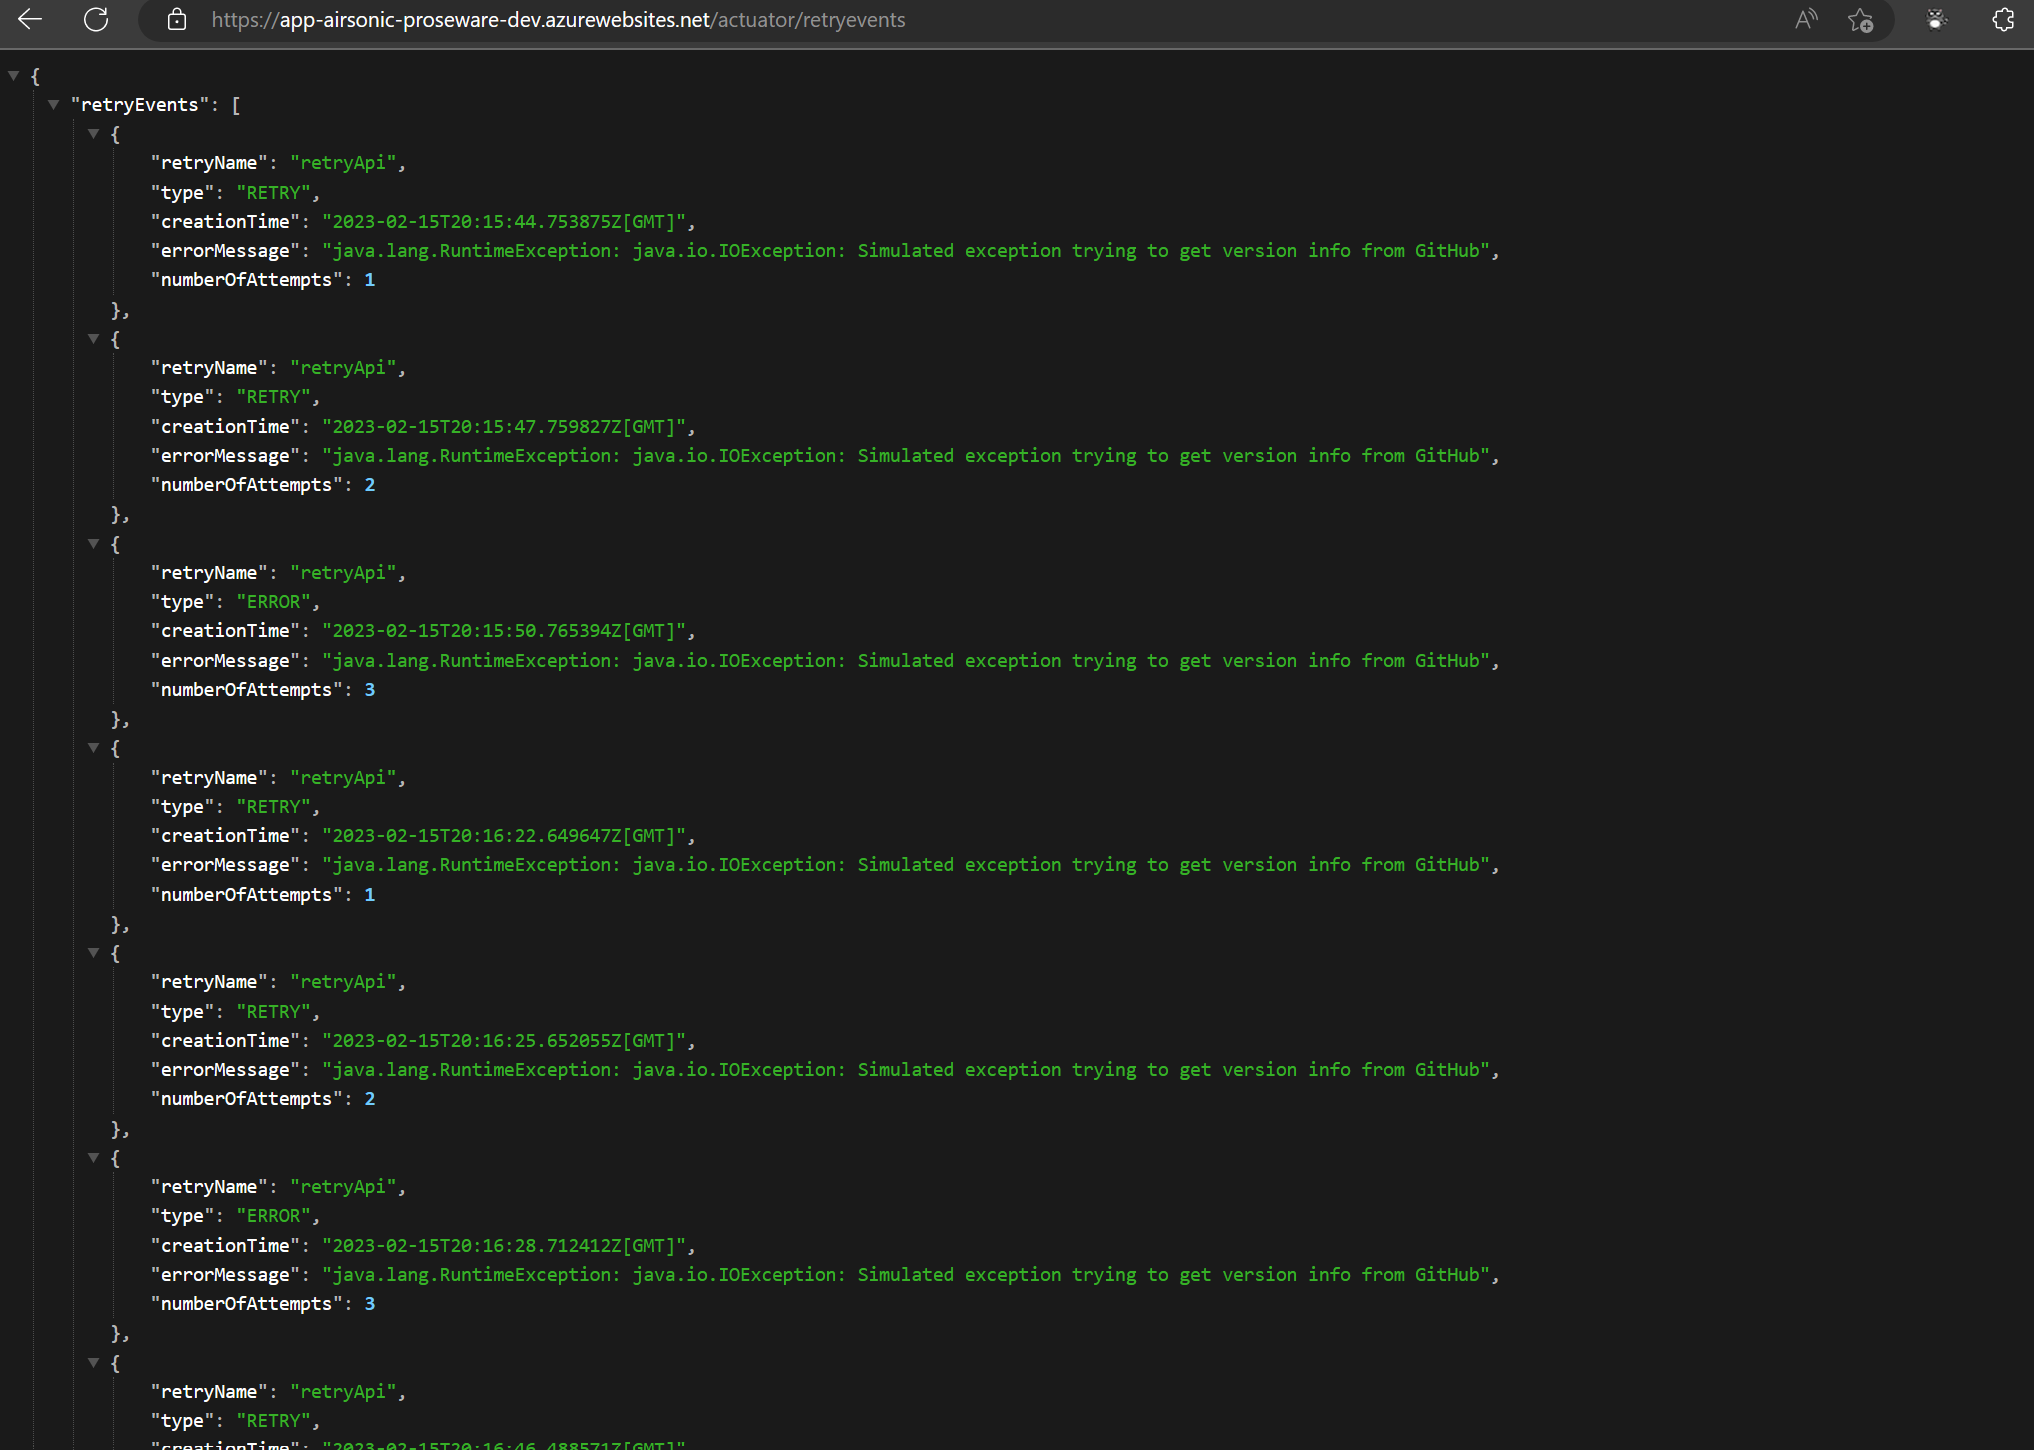
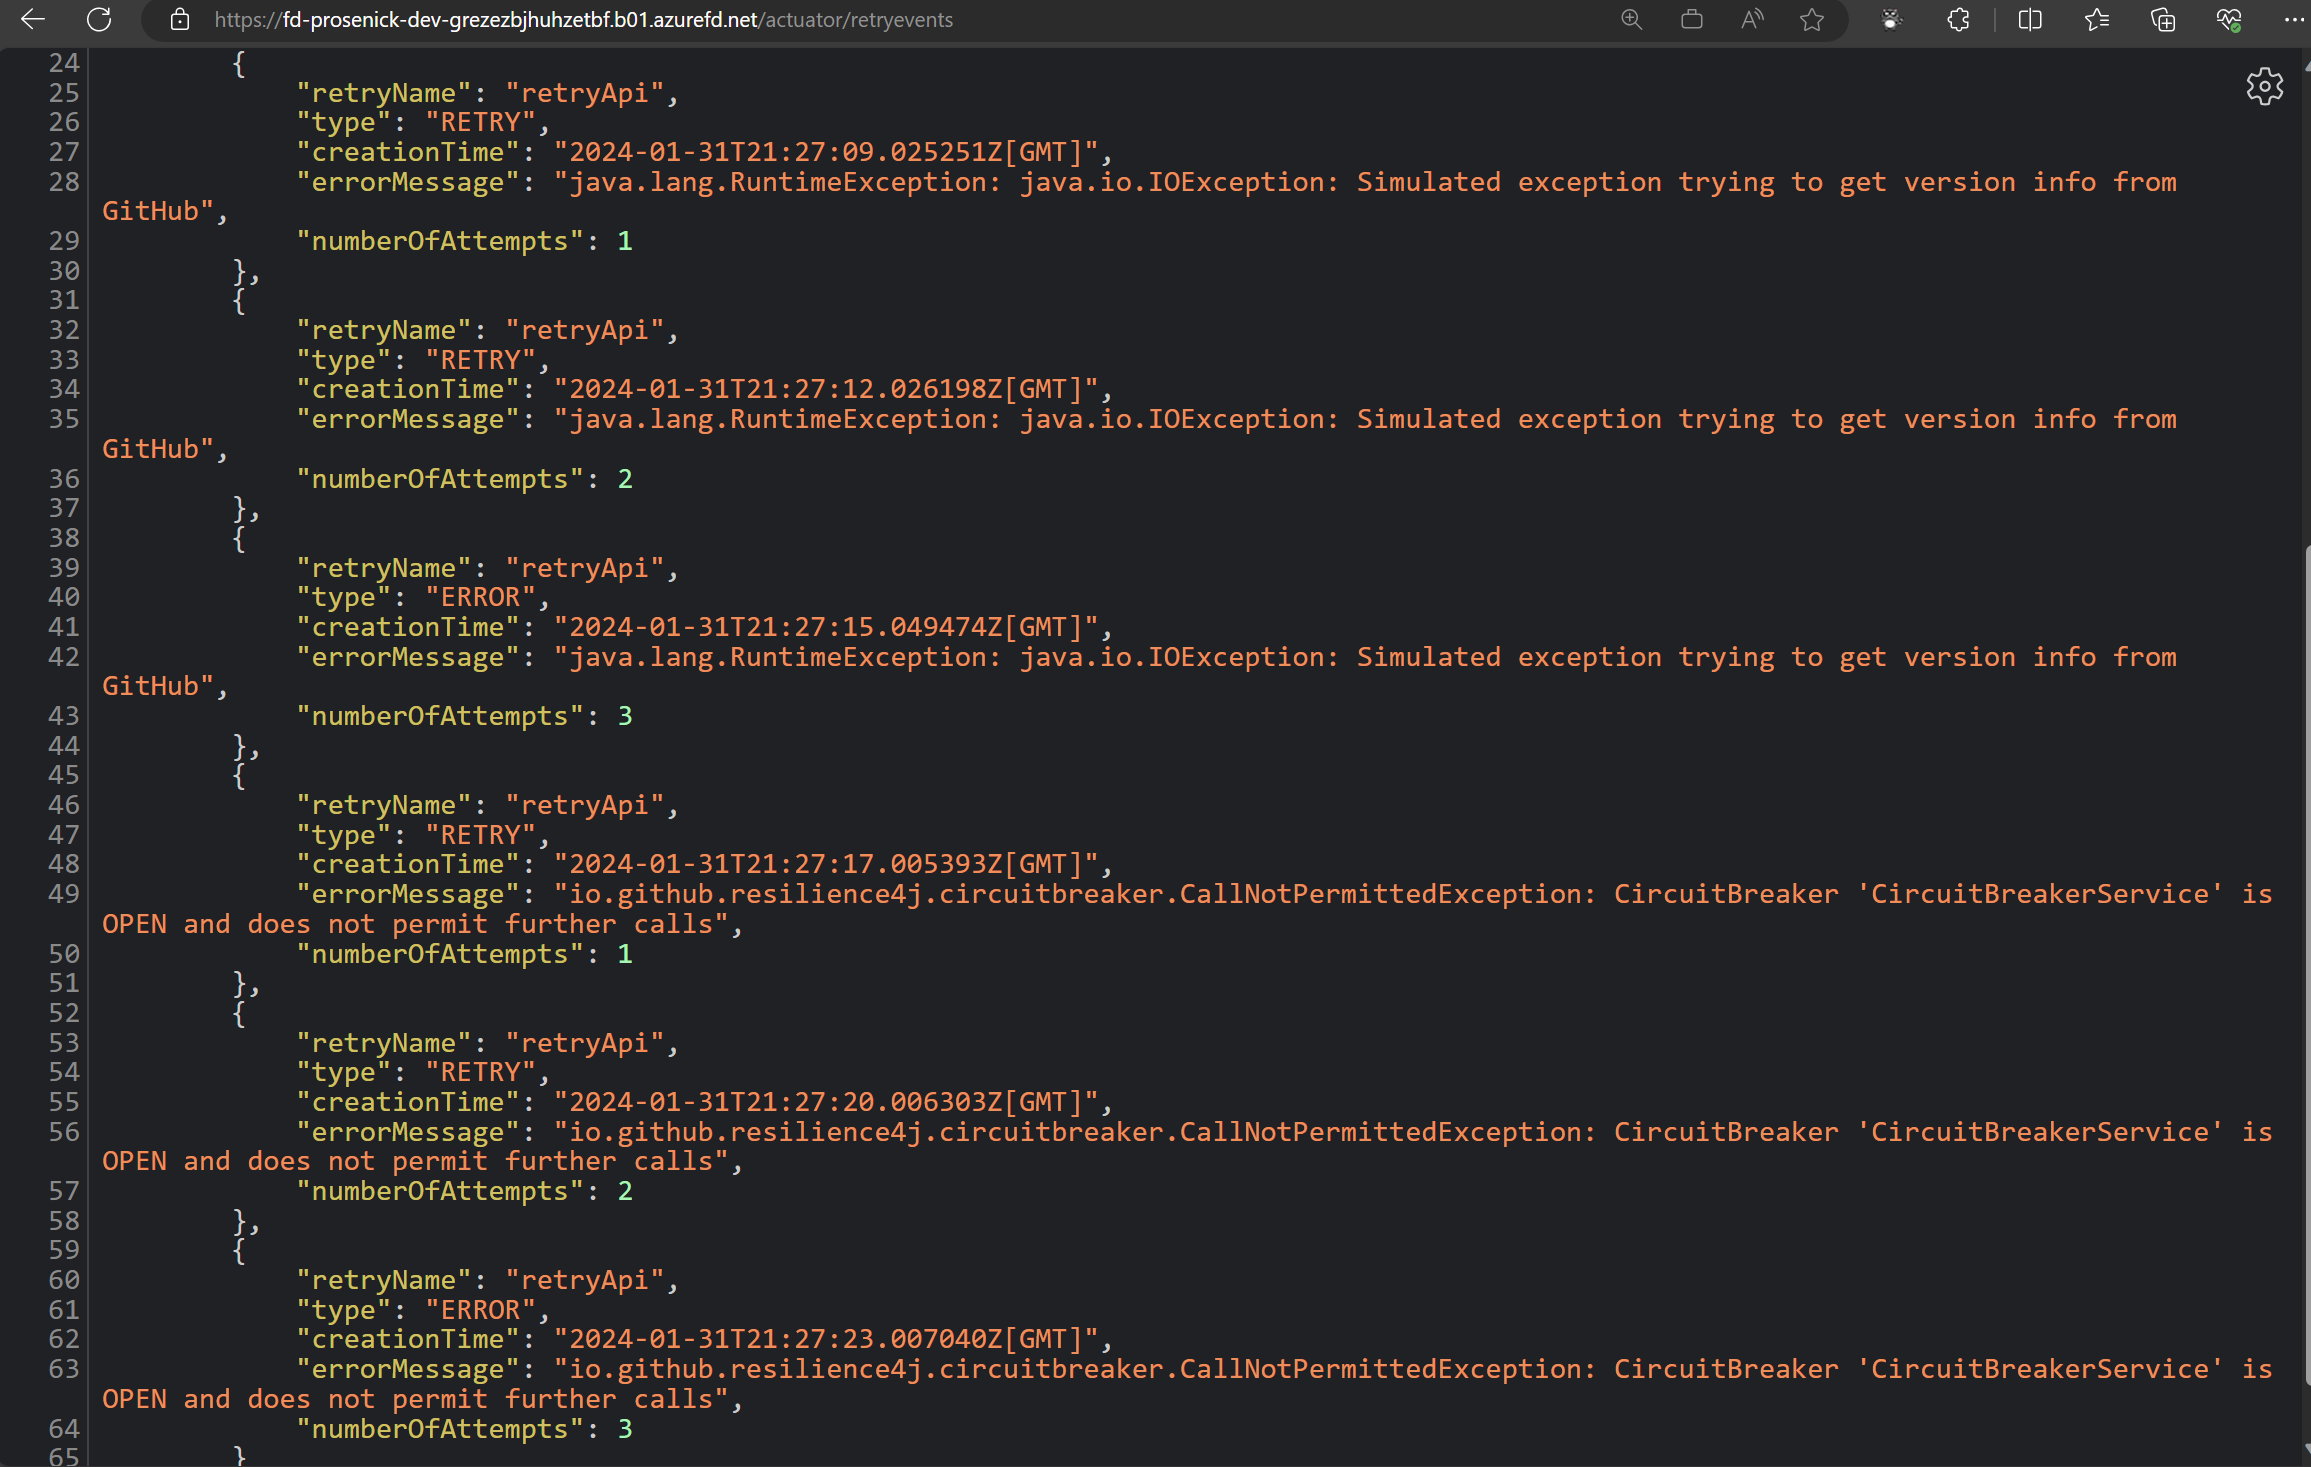
changes

diff --git a/Part4-Reliability/README.md b/Part4-Reliability/README.md
@@ -19,11 +19,11 @@ When the `AIRSONIC_RETRY_DEMO` setting is set to 1, we not only simulate a failu
 2. Changing an application setting will cause the App Service to restart. Wait for the app to restart.
 
 3. We added Spring Actuator Dependencies to the Proseware project. This enables actuator endpoints. Navigate to the following sites:
-    * https://<APP_NAME>.azurewebsites.net/actuator
-    * https://<APP_NAME>.azurewebsites.net/actuator/retryevents
-    * https://<APP_NAME>.azurewebsites.net/actuator/metrics/resilience4j.circuitbreaker.not.permitted.calls
+    * https://<FRONT_DOOR_URL>/actuator
+    * https://<FRONT_DOOR_URL>/actuator/retryevents
+    * https://<FRONT_DOOR_URL>/actuator/metrics/resilience4j.circuitbreaker.not.permitted.calls
 
-4. Navigate to https://<APP_NAME>.azurewebsites.net/index and refresh the page. Every time you refresh the page, a call to GitHub is made.
+4. Navigate to https://<FRONT_DOOR_URL>/index and refresh the page. Every time you refresh the page, a call to GitHub is made.
 5. Make note of the retry events in the actuator endpoints.
 
 ![proseware-retries](images/proseware-retries.png)
